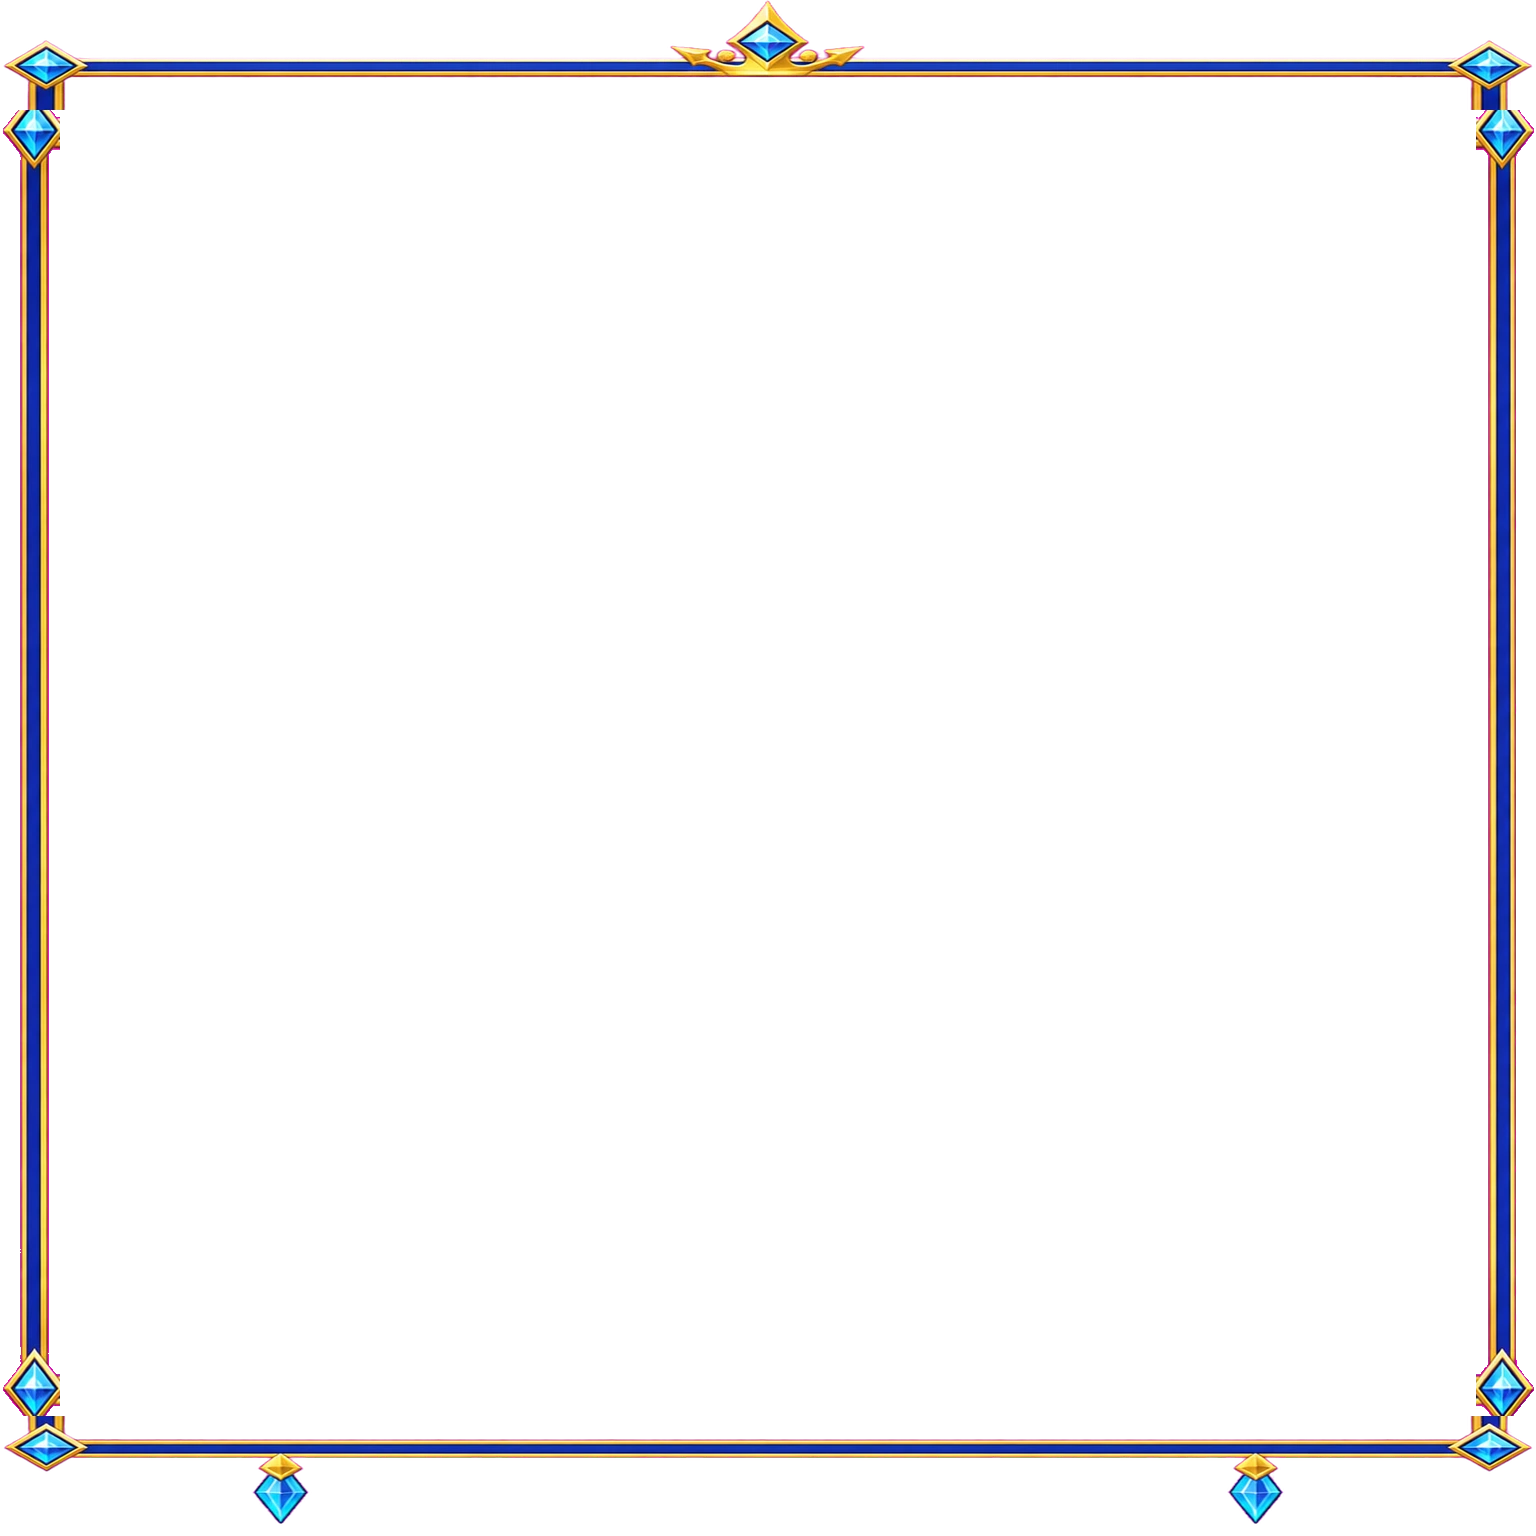
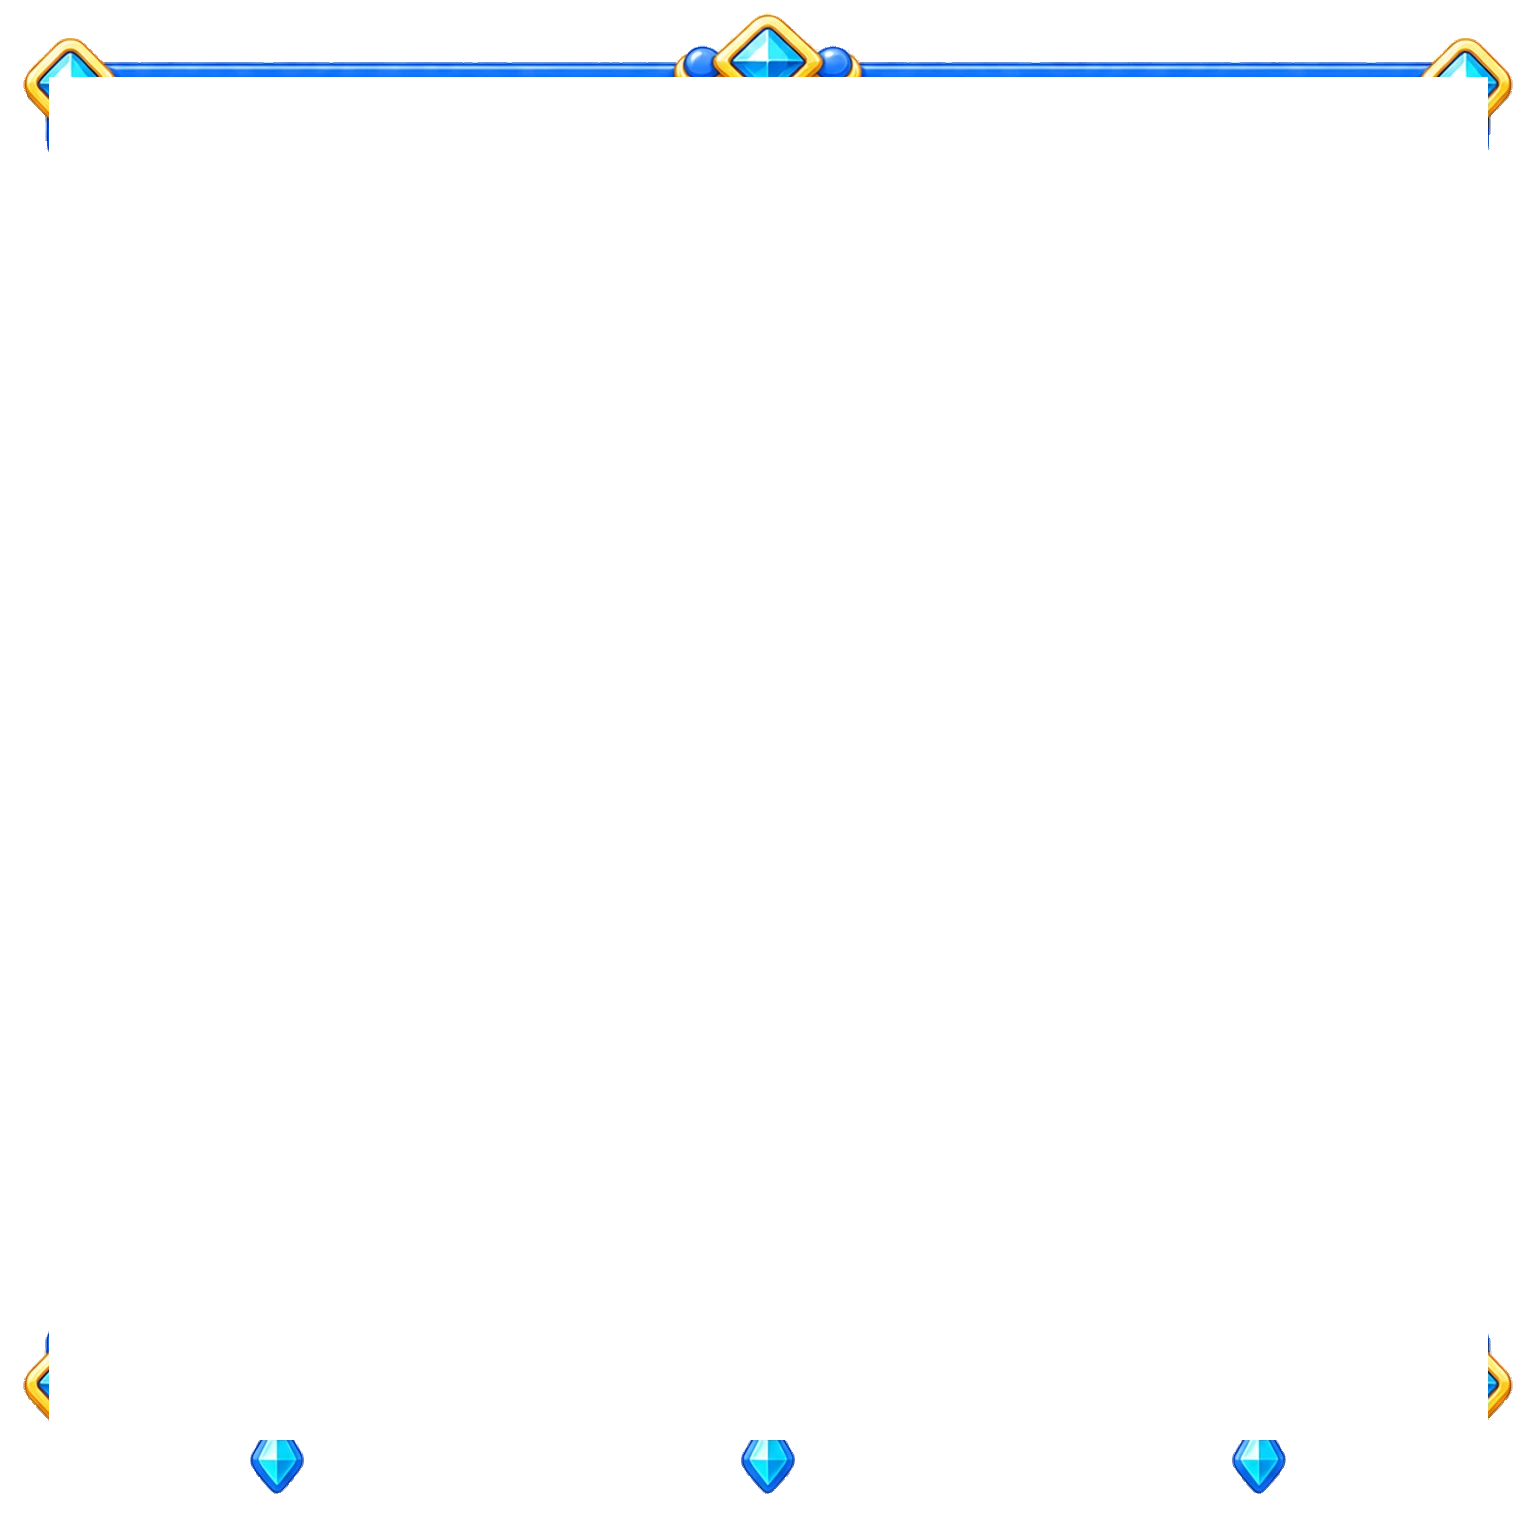
v3: ship Bubble Candy Kingdom tile board
Redesigns the letter-tile board in the Bubble Candy Kingdom style:

- Grid frame overlay (crown/gem ornament over the tile grid) swapped to
  Codex's new art, same geometry contract as before, no CSS changes needed.
- Idle and selected tile faces now use illustrated art (glossy blue/white
  and glossy gold) instead of flat CSS gradients, shared across all 56
  on-screen tiles. Power-badge tint colors and the hint outline updated to
  Codex's suggested accents.
- Board card frame: the delivered board-card-frame.png is a tall portrait
  reference (1024x1536) that doesn't survive being stretched over the
  actual card, whose height is content-driven and much squatter (row count
  varies 6-8) -- stretching blew the corner rounding into an oversized
  blob and squashed the gems. Recreated the card in CSS using colors
  sampled from the art instead; the two side gems are still the real
  cropped sprite, layered on top for a crisp, undistorted accent.

Also fixed a pre-existing (not caused by this change, confirmed by testing
the prior commit unmodified) layout bug: the board card's CSS Grid auto
middle row was absorbing leftover space from a definite-height ancestor,
leaving a ~40px dead gap between the letter grid and the hint footer.
Switched the card to flexbox, which sizes the grid row to its own
aspect-ratio-driven content instead.

Claude-Session: https://claude.ai/code/session_013nGM4LHPS8iuXCTnvGr8aw

Changed region(s): [[0.0, 0.0, 1.0, 1.0]]

diff --git a/app/v3/V3.module.css b/app/v3/V3.module.css
@@ -1558,11 +1558,14 @@
   will-change: transform,filter,opacity;
 }
 .tileLetter { position: relative; z-index: 1; display: block; line-height: 1; pointer-events: none; }
-.tileFace[data-badge] { border-width: 2.5px; }
-.tileFace[data-badge="attack"] { background: linear-gradient(145deg,#ffdcd6,#f0978a); border-color: #d64f3f; }
-.tileFace[data-badge="steal"] { background: linear-gradient(145deg,#ecdcfb,#c495ec); border-color: #8a4fc9; }
-.tileFace[data-badge="raid"] { background: linear-gradient(145deg,#fff0bf,#f0c458); border-color: #d69a1e; }
-.tileFace[data-badge="shield"] { background: linear-gradient(145deg,#d3ebff,#7fbdf5); border-color: #2f7fce; }
+/* Power-badge accents, updated to Codex's suggested Bubble Candy Kingdom palette. Layered
+   as a tint over the idle tile art rather than a flat gradient, so the glossy face still
+   reads through. */
+.tileFace[data-badge] { border: 2.5px solid; border-radius: 7px; }
+.tileFace[data-badge="attack"] { background: linear-gradient(145deg,rgba(255,75,85,.28),rgba(255,75,85,.1)), url('/board-frame/tile-idle.webp') center / 100% 100% no-repeat; border-color: #ff4b55; }
+.tileFace[data-badge="steal"] { background: linear-gradient(145deg,rgba(155,98,232,.28),rgba(155,98,232,.1)), url('/board-frame/tile-idle.webp') center / 100% 100% no-repeat; border-color: #9b62e8; }
+.tileFace[data-badge="raid"] { background: linear-gradient(145deg,rgba(255,196,63,.28),rgba(255,196,63,.1)), url('/board-frame/tile-idle.webp') center / 100% 100% no-repeat; border-color: #ffc43f; }
+.tileFace[data-badge="shield"] { background: linear-gradient(145deg,rgba(50,167,240,.28),rgba(50,167,240,.1)), url('/board-frame/tile-idle.webp') center / 100% 100% no-repeat; border-color: #32a7f0; }
 .tileBadgeWatermark {
   position: absolute;
   inset: 6%;
@@ -1573,8 +1576,8 @@
   pointer-events: none;
   filter: drop-shadow(0 2px 3px rgba(0,0,0,.3));
 }
-.boldTile[class*="selected"] .tileFace { border-color: #fff0a0; color: #fff; background: linear-gradient(145deg,#ffd95e,#df7d17); box-shadow: inset 0 2px 0 #fff4b2,0 0 14px #ffc438; }
-.boldTile[class*="hinted"] .tileFace { outline: 2px solid #fff09a; }
+.boldTile[class*="selected"] .tileFace { border: 0; color: #6a3d00; background: url('/board-frame/tile-selected.webp') center / 100% 100% no-repeat!important; box-shadow: none; }
+.boldTile[class*="hinted"] .tileFace { outline: 2px solid #6de3ff; }
 .acceptedWordTile { background: linear-gradient(180deg,#2d83c4,#0b4d91)!important; box-shadow: 0 2px 0 #07366e,0 0 14px #ffd64d!important; }
 .acceptedWordTile:not(.bonusWordTile) { animation: none!important; }
 .acceptedWordTile:not(.bonusWordTile) .tileFace { animation: acceptedWordConfirm 220ms cubic-bezier(.18,.78,.28,1.22) var(--word-stagger,0ms) both; }
@@ -1693,13 +1696,25 @@
     linear-gradient(145deg,var(--royal-cream-100),var(--royal-cream-200) 62%,var(--royal-cream-300))!important;
   box-shadow: var(--panel-shadow)!important;
 }
-/* Let the chapter backdrop tint through the board's own frame instead of
-   sitting on a fully opaque card, so more of the theme art reads around
-   the (still fully opaque) letter grid. */
+/*
+ * Bubble Candy Kingdom board card. board-card-frame.webp (1024x1536, a tall portrait
+ * reference shape) doesn't work as a stretched full-card background: the actual card is
+ * much wider-relative-to-height than the source art (row count varies 6-8, so height is
+ * content-driven, not fixed), and stretching a portrait image that much onto a squatter
+ * box blows up the corner-rounding into an oversized blob and squashes the gems. Instead
+ * this recreates the card in CSS using colours sampled directly from the art (rim blue
+ * #034cc6, gold accent line #f9e29b, pale interior fill #edf5fd), which scales cleanly at
+ * any height. The two gems are still the real cropped sprite (below), not CSS.
+ */
 .boardShell :global([class*="boardCard"]) {
+  border-color: #034cc6!important;
   background:
-    linear-gradient(120deg,rgba(255,255,255,.38),transparent 34%),
-    linear-gradient(145deg,rgba(255,253,240,.9),rgba(255,241,199,.86) 62%,rgba(239,210,139,.82))!important;
+    linear-gradient(160deg,rgba(255,255,255,.5),transparent 30%),
+    linear-gradient(180deg,#edf5fd 0%,#dde9fa 100%)!important;
+  box-shadow:
+    inset 0 0 0 3px #f9e29b,
+    0 3px 0 rgba(3,45,140,.35),
+    0 8px 16px rgba(3,30,90,.28)!important;
 }
 .themeObjectiveRail::after,
 .powerProgress::after {
@@ -1758,24 +1773,23 @@
   border-radius: 22px!important;
   padding: 9px!important;
 }
+/* Crisp gem accents on top of the ones baked into the stretched background above --
+   plain background stretch distorts them slightly, so a small undistorted sprite here
+   covers that. */
 .boardShell :global([class*="boardCard"])::before,
 .boardShell :global([class*="boardCard"])::after {
+  content: "";
   position: absolute;
   z-index: 3;
-  top: 45%;
-  width: 19px;
-  height: 19px;
-  display: grid;
-  place-items: center;
-  border: 2px solid #fff;
-  border-radius: 50%;
-  color: #97611d;
-  background: #edc55e;
-  box-shadow: 0 2px 0 rgba(111,58,23,.4);
+  top: 48%;
+  width: 30px;
+  height: 30px;
+  transform: translateY(-50%);
+  background: url('/board-frame/board-gem-accent.webp') center / 100% 100% no-repeat;
   pointer-events: none;
 }
-.boardShell :global([class*="boardCard"])::before { content: "●"; left: -10px; }
-.boardShell :global([class*="boardCard"])::after { content: "●"; right: -10px; }
+.boardShell :global([class*="boardCard"])::before { left: -15px; }
+.boardShell :global([class*="boardCard"])::after { right: -15px; transform: translateY(-50%) scaleX(-1); }
 .boardLetterGrid {
   border: 3px solid #fff!important;
   border-radius: 18px!important;
@@ -1784,16 +1798,18 @@
     linear-gradient(145deg,#174f9a,#071c50)!important;
   box-shadow: inset 0 0 18px rgba(0,0,0,.35),0 4px 0 rgba(113,60,23,.4)!important;
 }
+/* Bubble Candy Kingdom tiles: tile-idle.webp/tile-selected.webp carry their own rim and
+   fill, so the old outer bezel + gradient face are dropped in favour of a single
+   background image per state -- cheap to repeat across up to 56 on-screen tiles. */
 .boldTile {
-  border-width: 1.5px!important;
-  border-radius: 10px!important;
-  background: linear-gradient(180deg,#2f8cca,#155ca2 58%,#093a79)!important;
-  box-shadow: 0 2px 0 rgba(1,9,29,.4)!important;
+  border: 0!important;
+  background: none!important;
+  box-shadow: none!important;
 }
 .tileFace {
-  border-color: #fff;
-  background: #f6dfa0;
-  box-shadow: 0 1px 0 rgba(255,230,132,.7);
+  border: 0;
+  background: url('/board-frame/tile-idle.webp') center / 100% 100% no-repeat;
+  box-shadow: none;
 }
 .tileLetter {
   color: var(--royal-ink);
@@ -2610,9 +2626,9 @@
     width: 100%;
     height: auto;
     min-height: 0;
-    display: grid;
-    grid-template-rows: 22px auto 40px;
-    align-items: center;
+    display: flex;
+    flex-direction: column;
+    align-items: stretch;
     border-width: 3px!important;
     border-radius: 16px!important;
     padding: 4px!important;
